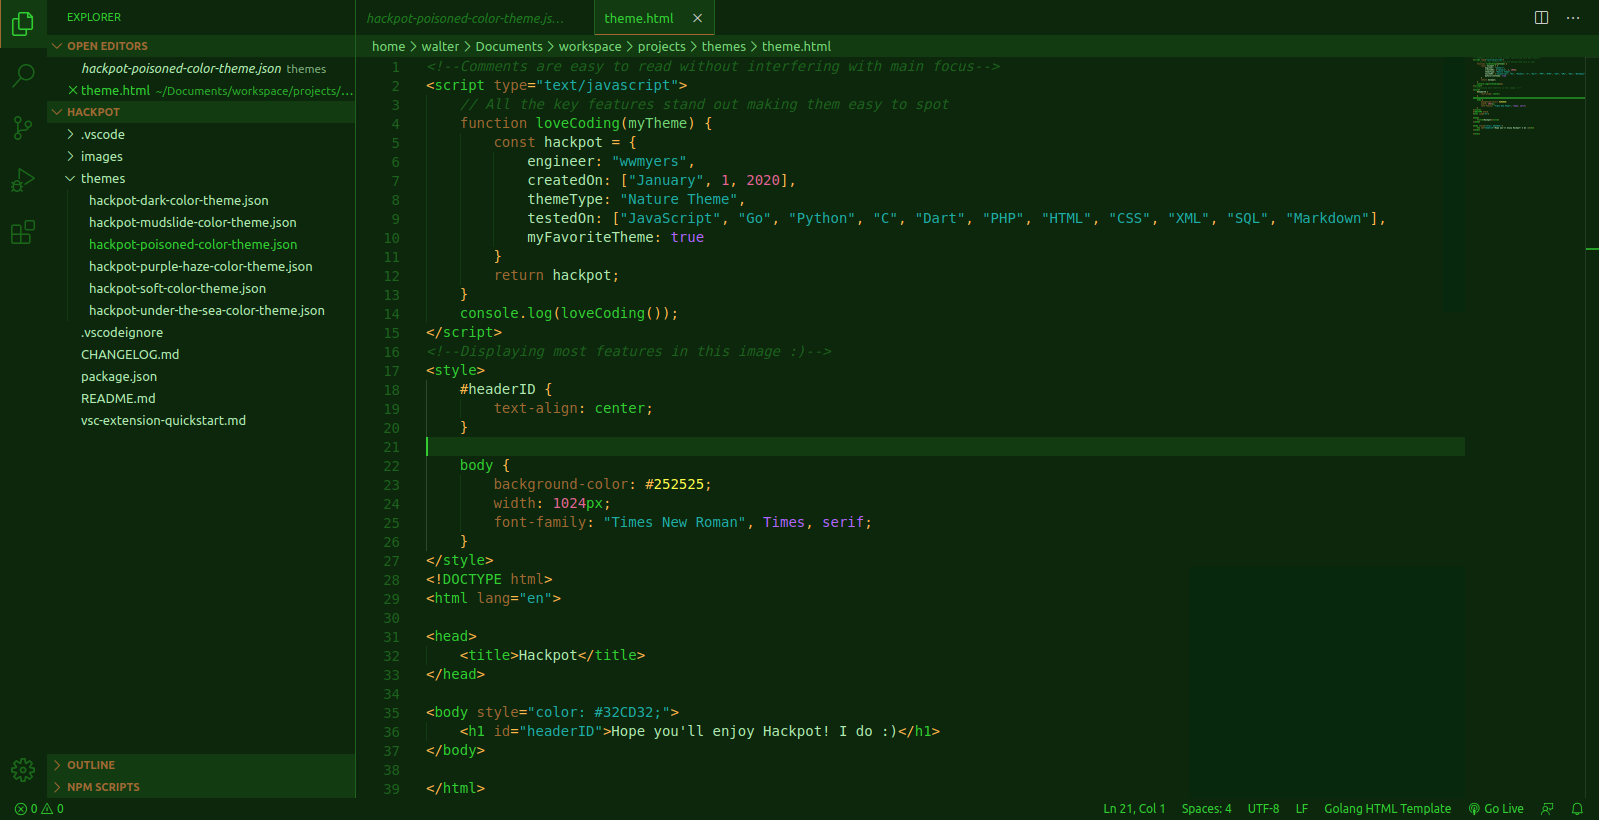
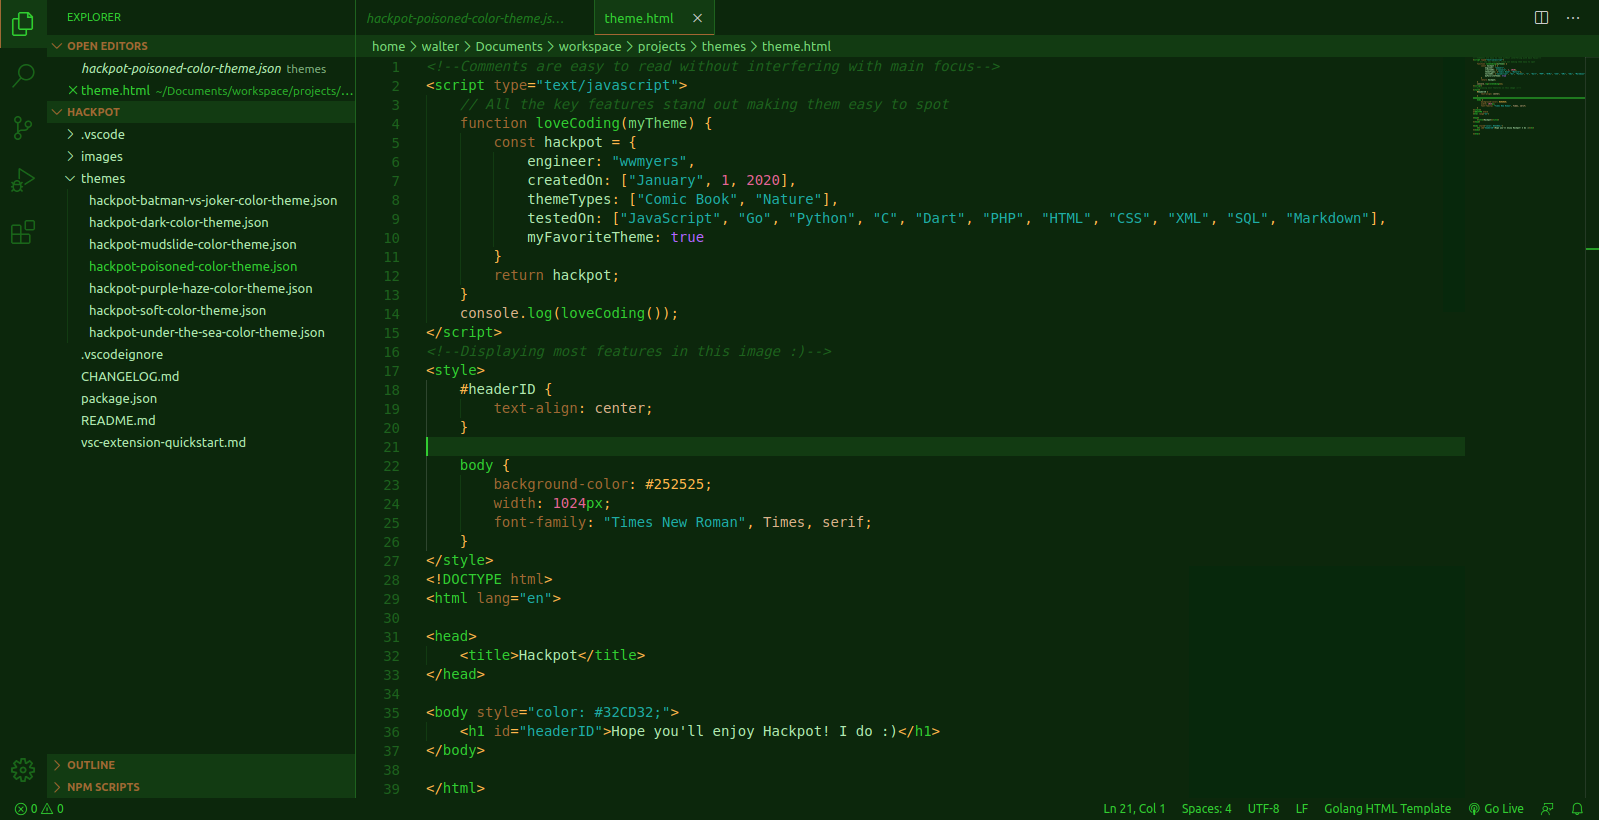
Add files via upload

diff --git a/README.md b/README.md
@@ -1,16 +1,16 @@
 # Hackpot
 
-#### Background color options:
-* Comic Book Themes
-  * Hackpot Batman vs Joker (Classic meets modern)
-  * more to come
-* Nature Themes
-  * Hackpot Soft (Garden of Eden at sunset)
-  * Hackpot Dark (Garden of Eden at night)
-  * Hackpot Under The Sea (Garden of Atlantis)
-  * Hackpot Mudslide (Garden on a mudslide)
-  * Hackpot Purple Haze (Garden for Jimi Hendrix)
-  * Hackpot Poisoned (Careful with this one)
+#### Comic Book Themes
+* Hackpot Batman vs Joker (Classic meets modern)
+* more to come
+
+#### Nature Theme With 6 Background Color Options
+* Hackpot Soft (Garden of Eden at sunset)
+* Hackpot Dark (Garden of Eden at night)
+* Hackpot Under The Sea (Garden of Atlantis)
+* Hackpot Mudslide (Garden on a mudslide)
+* Hackpot Purple Haze (Garden for Jimi Hendrix)
+* Hackpot Poisoned (Careful with this one)
 
 Hackpot Batman vs Joker
 ![hackpot](https://github.com/wwmyers/hackpot/raw/master/images/hackpotbatmanvsjoker.png)

diff --git a/CHANGELOG.md b/CHANGELOG.md
@@ -6,7 +6,10 @@
 * Added new theme Hackpot Batman vs Joker
   * Vision came from the old comic books, but I combined some of the new colors as well
   * Has improved syntax highlighting
-  * Will work on the other themes as well to give them the same scopes
+* Updated the other themes to have the same scopes for highlighting, not the colors
+  * Added tan to the nature themes since I needed one more color to match Batman vs Joker
+* Fixed some of the stuff on the info page
+* Also added a new icon for these themes
 
 ### Apr 1 2020
 * Added some more support for Dart
